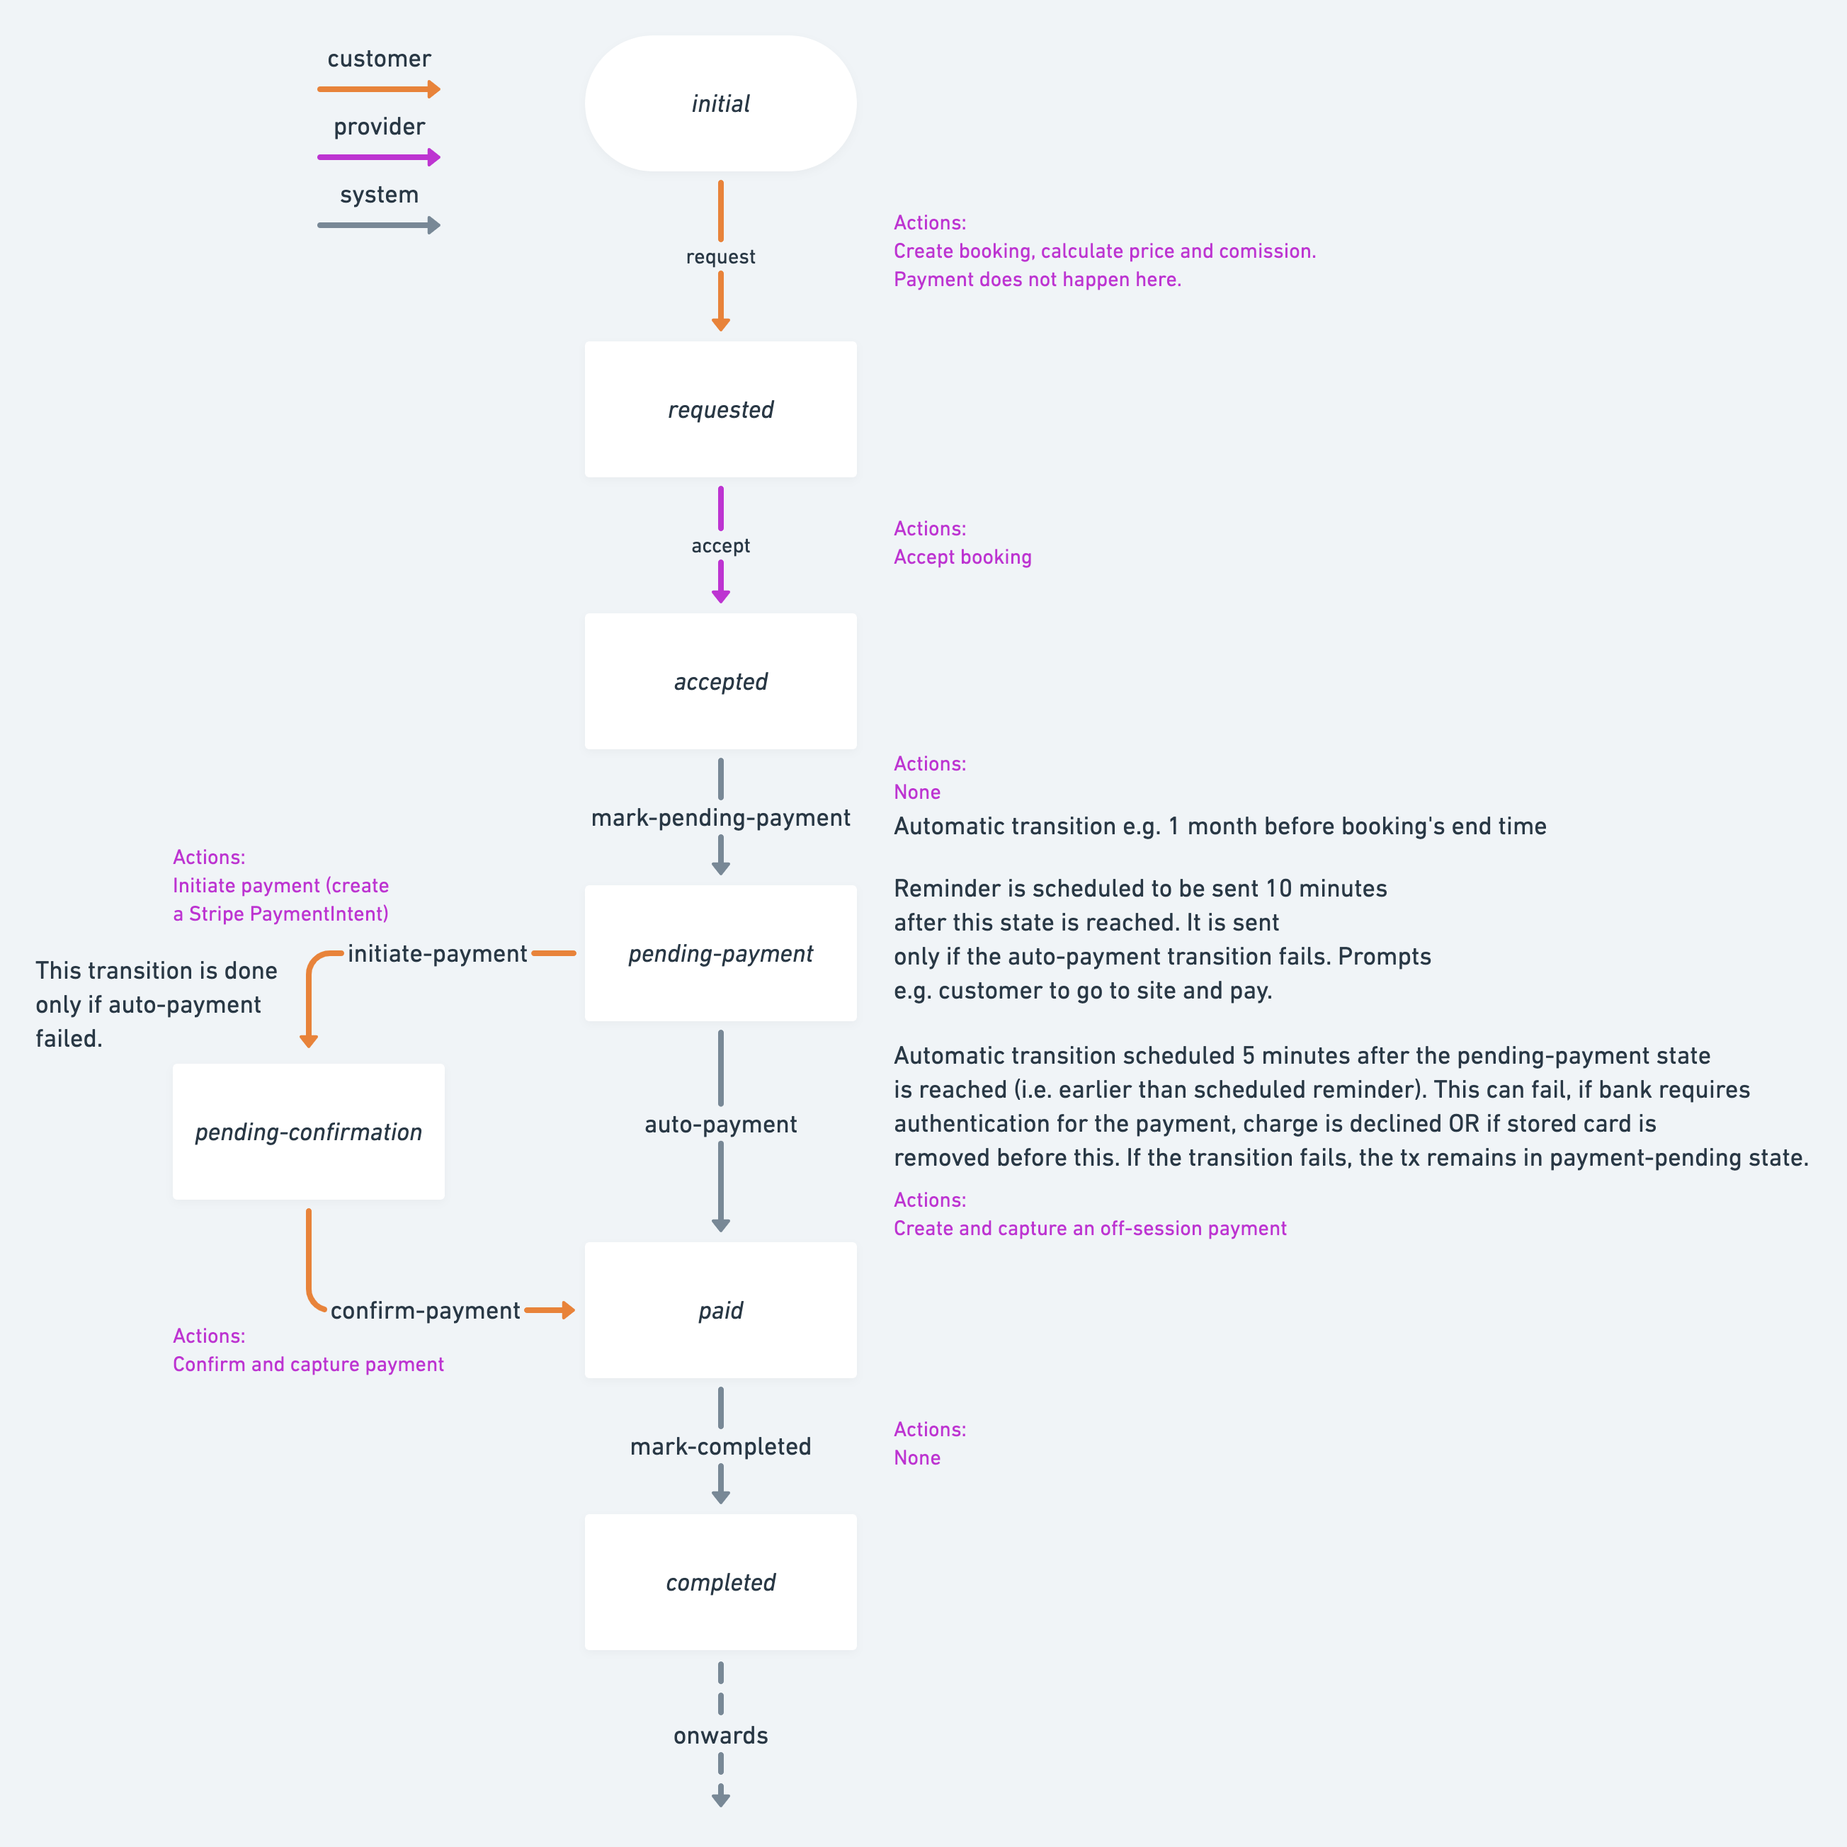
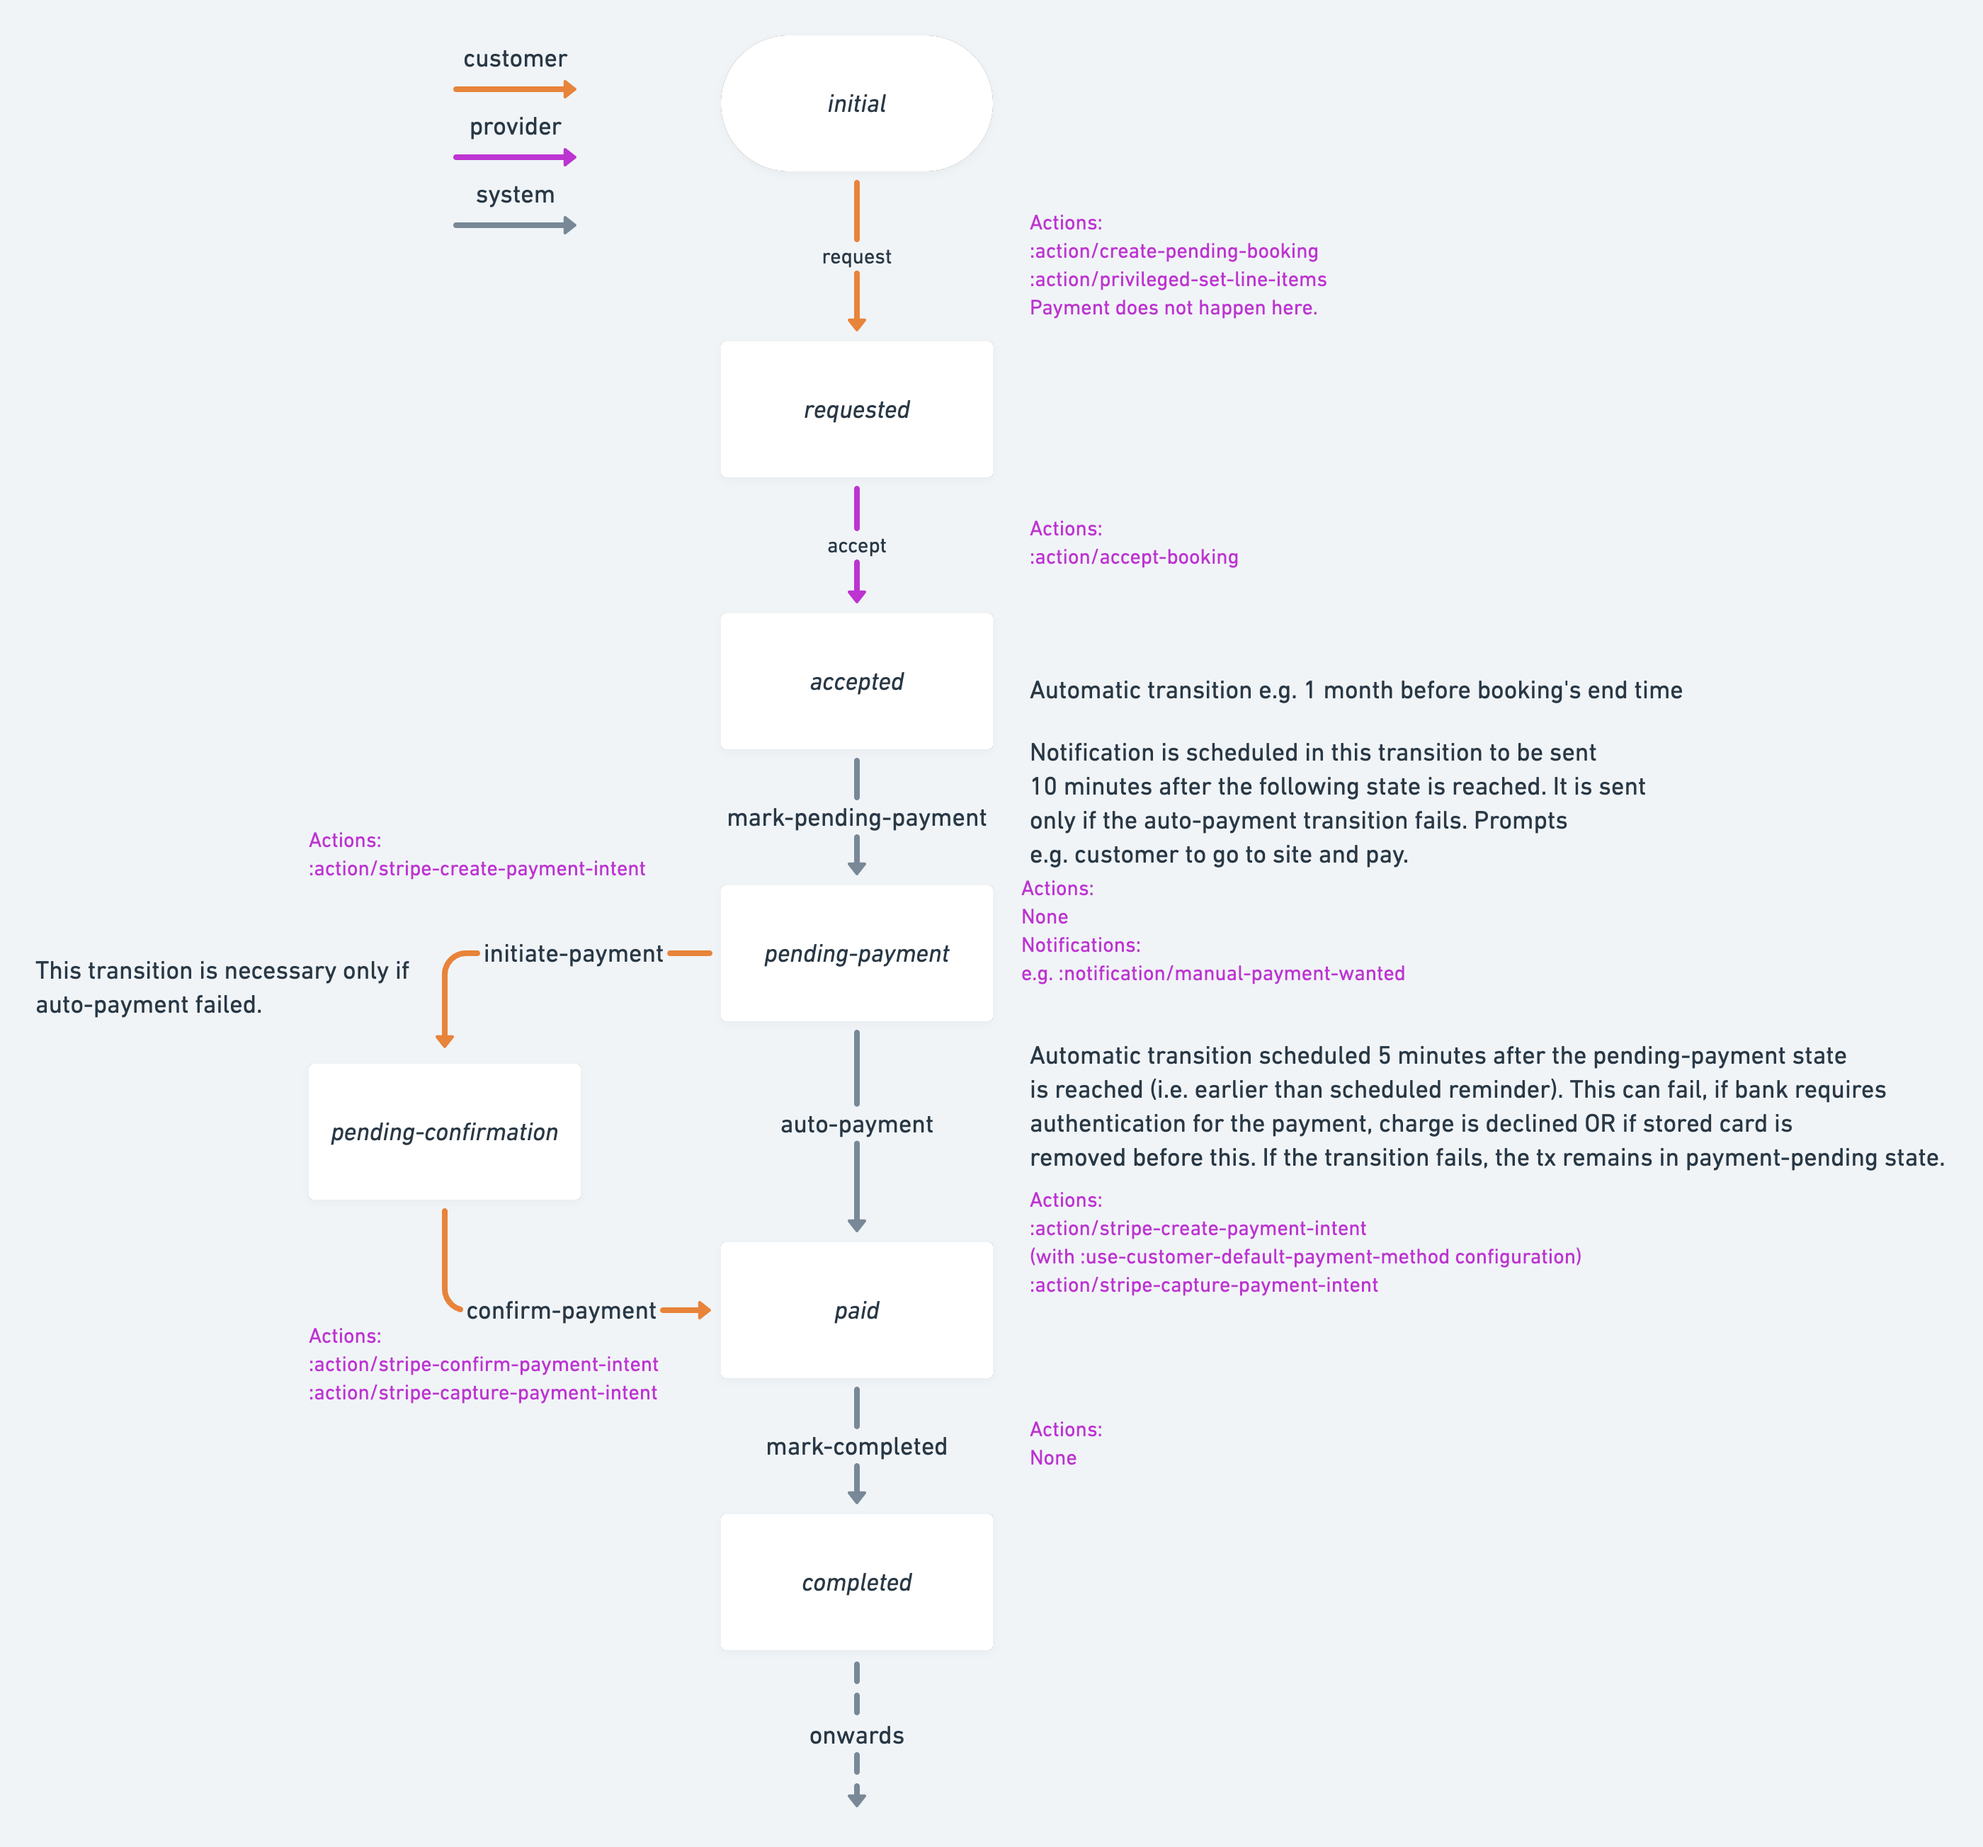
Start updating off-session payments documentation

diff --git a/src/docs/background/off-session-payments/index.md b/src/docs/background/off-session-payments/index.md
@@ -34,7 +34,10 @@ booking period.
 Suppose your sauna rentals marketplace should allow customers to book
 saunas up to a year in advance, but the customer is charged only a
 certain time in advance before the booking. The figure below illustrates
-how a part of your transaction process might look like.
+how a part of your transaction process might look like. The
+[flex-example-processes Github repository](https://github.com/sharetribe/flex-example-processes)
+contains an example transaction process corresponding to the flow
+described.
 
 ![Example transaction process with delayed payment](tx-delayed-payments.png 'Example transaction process with delayed payment')
 
@@ -62,7 +65,7 @@ kicks in), the payment card might have expired, etc. It is therefore
 always important to allow for a fall-back payment path in your
 transaction process. Since only one transition from a state can be
 triggered automatically, this fall-back payment path must be defined to
-trigger upon a user action.
+trigger upon a user action, as in the example.
 
 You can build upon this example and extend it to make the payment
 process more robust. For instance, in case the customer fails to pay for
